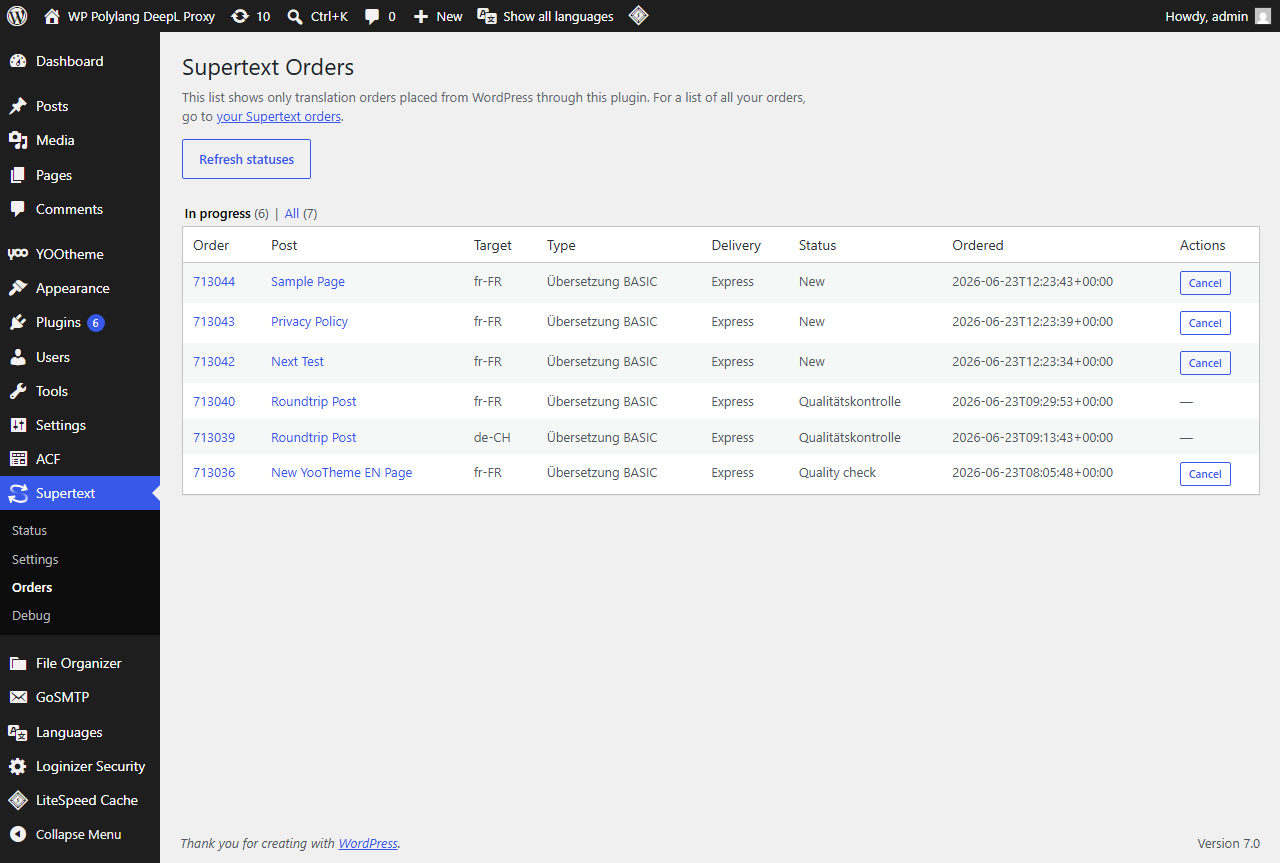
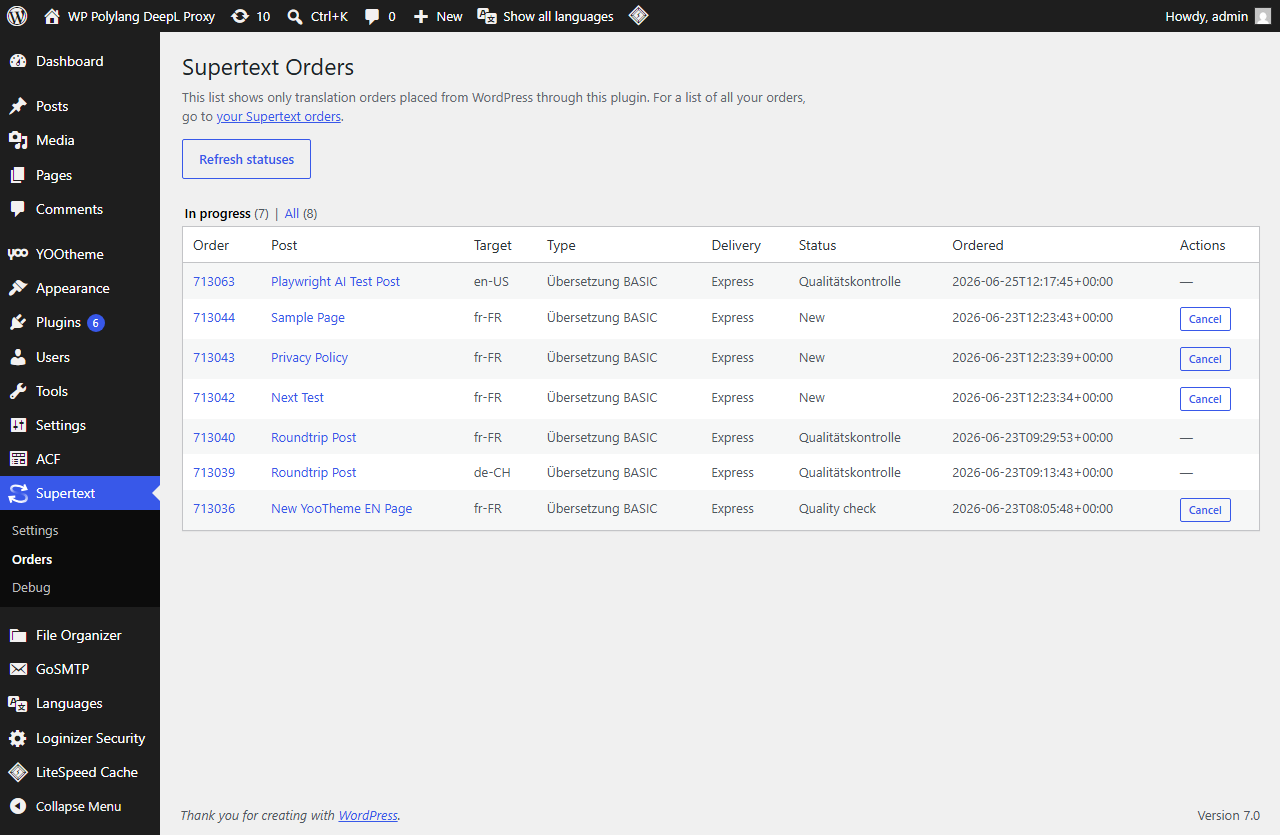
Orders: rename Cancel to Reset with debug-only confirmation popup

diff --git a/includes/Admin/Orders_Page.php b/includes/Admin/Orders_Page.php
@@ -97,7 +97,7 @@ class Orders_Page {
 				delete_post_meta( (int) $order['post_id'], '_supertext_order_' . $order['lang'] );
 			}
 			Orders::update( $order_id, array( 'status' => 'Cancelled' ) );
-			self::notice( 'success', __( 'Order cancelled. You can order this post again.', 'supertext-polylang' ) );
+			self::notice( 'success', __( 'Order reset locally. You can order this post again. (The Supertext order was not cancelled.)', 'supertext-polylang' ) );
 		}
 
 		wp_safe_redirect( admin_url( 'admin.php?page=' . self::SLUG ) );
@@ -279,11 +279,19 @@ class Orders_Page {
 								<td><?php echo esc_html( (string) ( $order['created_at'] ?? '' ) ); ?></td>
 								<td>
 									<?php if ( $is_open ) : ?>
-										<form method="post" action="<?php echo esc_url( admin_url( 'admin-post.php' ) ); ?>" onsubmit="return confirm('<?php echo esc_js( __( 'Cancel this order? You will be able to order this post again.', 'supertext-polylang' ) ); ?>');">
+										<form method="post" action="<?php echo esc_url( admin_url( 'admin-post.php' ) ); ?>" onsubmit="return confirm('<?php echo esc_js( __( 'Reset this order locally?\n\nThis is for debugging only. It removes the local lock so you can order this post again — it does NOT cancel the order at Supertext.', 'supertext-polylang' ) ); ?>');">
 											<input type="hidden" name="action" value="<?php echo esc_attr( self::CANCEL_ACTION ); ?>" />
 											<input type="hidden" name="order_id" value="<?php echo esc_attr( (string) $order['order_id'] ); ?>" />
 											<?php wp_nonce_field( self::CANCEL_ACTION ); ?>
-											<?php submit_button( __( 'Cancel', 'supertext-polylang' ), 'delete small', 'submit', false ); ?>
+											<?php
+											submit_button(
+												__( 'Reset', 'supertext-polylang' ),
+												'secondary small',
+												'submit',
+												false,
+												array( 'title' => esc_attr__( 'Debug only: removes the local lock so the post can be ordered again. Does not cancel the Supertext order.', 'supertext-polylang' ) )
+											);
+											?>
 										</form>
 									<?php else : ?>
 										—

diff --git a/docs/README.md b/docs/README.md
@@ -155,7 +155,8 @@ Published, per your settings).
   **Status**, **Ordered** date.
 - **In progress / All** filter (hides *Collected* orders by default).
 - **Refresh statuses** pulls the current status from Supertext.
-- **Cancel** removes the per‑post lock so you can order that post again (internal only).
+- **Reset** (debug only) removes the per‑post lock so you can order that post again. It
+  does **not** cancel the order at Supertext; a confirmation popup explains this.
 - A link to your full **Supertext orders** overview.
 
 ![Supertext Orders page](images/orders.png)